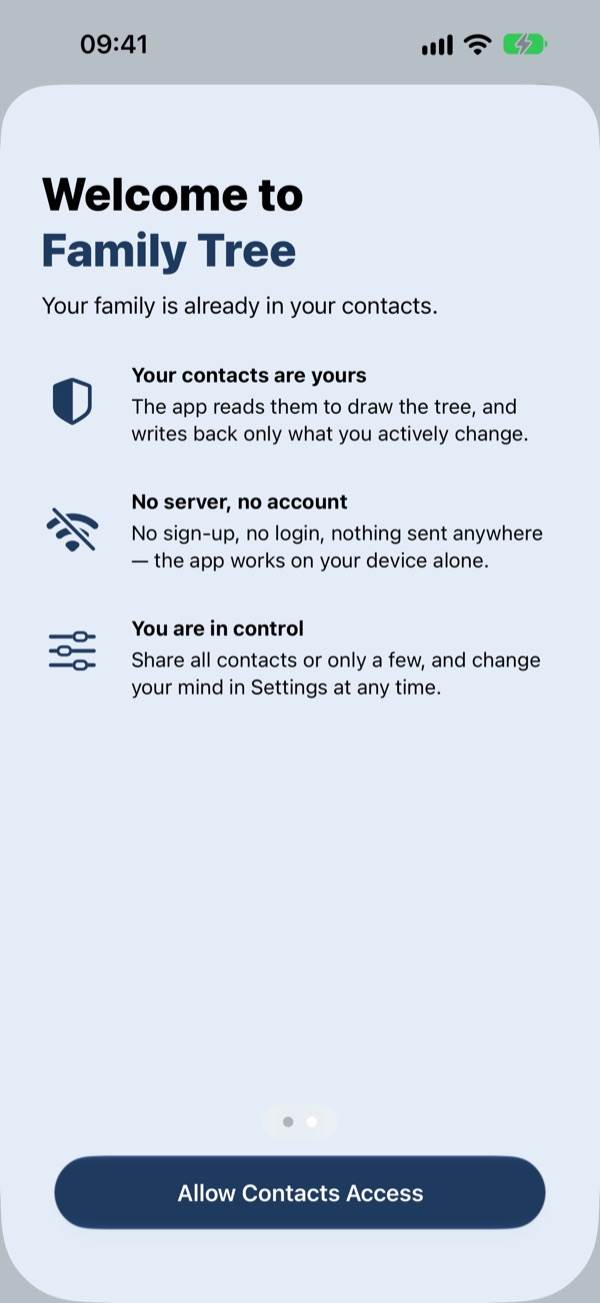
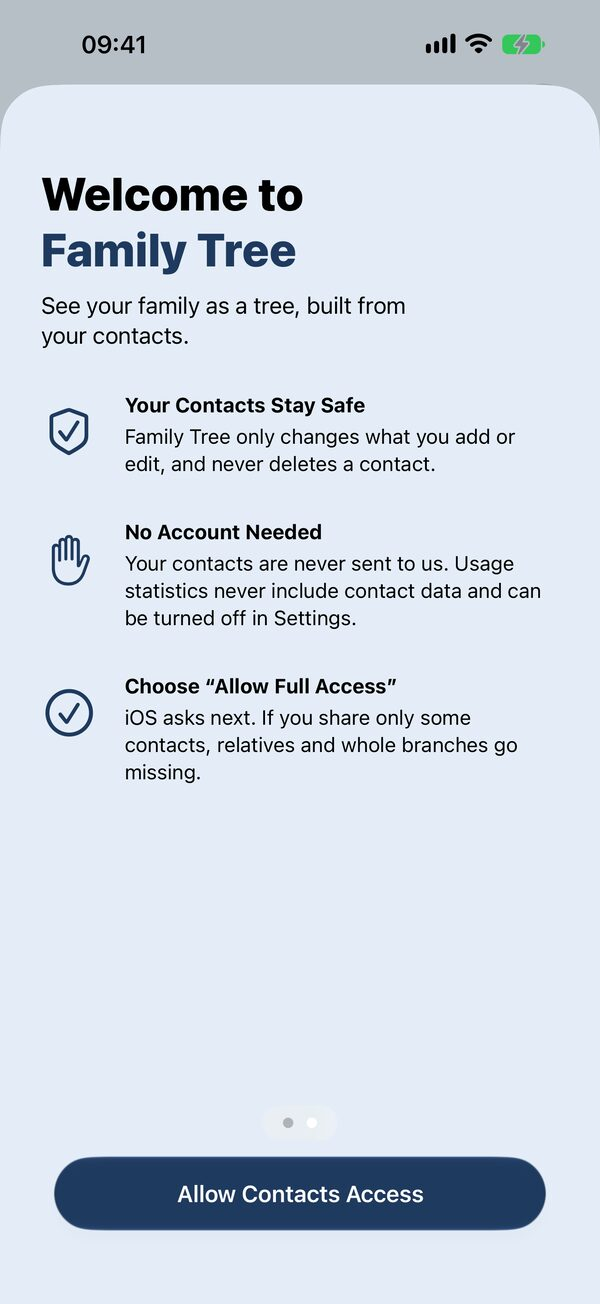
Update Family Tree to the current app with new screenshots and texts

diff --git a/data/apps/family-tree.md b/data/apps/family-tree.md
@@ -3,8 +3,8 @@ order: 3
 app_name: Family Tree
 title: "Family Tree: Your family tree from Contacts"  # <title>
 description: >-                                     # meta description + app row text
-  Turns the relations already saved in your contacts into a family tree: explore it, add parents,
-  children and partners, and fix names that do not match. No account, nothing to type again.
+  Turns your contacts into a family tree: add parents, children and partners once, and they are
+  saved right in Contacts, on all your devices. No account, nothing to type twice.
 tagline: Your family tree from Contacts
 accent: "#E8B800"
 icon: /assets/apps/family-tree/icon-256.png
@@ -16,52 +16,56 @@ coming_soon: true
 hero:
   title: The family you already carry around.
   subtitle: >-
-    Family Tree reads the mother, father, child and partner entries in your contacts and draws them
-    as a family tree. Contacts stays the single place for your data; the tree just shows it.
-  trust: ["iPhone & iPad", No account, Your data stays on your device]
+    Family Tree draws your family from the mother, father, child and partner entries in your
+    contacts. Add relatives once: they are saved right in Contacts, so your tree is on all your
+    devices through iCloud.
+  trust: ["iPhone & iPad", No account, Contacts never sent to us]
   image: 01-family-tree.jpg
   image_alt: Family Tree on iPhone, showing four generations of a family as a tree
 sections:
-  screenshots: { title: A look at Family Tree, description: "A tree of every generation, a list of everyone in it, and a PDF to share." }
+  screenshots: { title: A look at Family Tree, description: "A tree of every generation, relatives added in a few taps, and a PDF to share." }
   features:    { title: Built on your contacts, description: "No second database and no account: your family is already in your phone." }
   support:     { title: Support, description: "Something not working, or an idea? Write to apps@t-schmutz.de. I read every message." }
-  download:    { title: Family Tree is coming soon, text: "Family Tree will soon be on the App Store for iPhone and iPad. Family Tree Pro, a one-time in-app purchase, adds the PDF export and dates of death." }
+  download:    { title: Family Tree is coming soon, text: "Family Tree will soon be on the App Store for iPhone and iPad. Family Tree Pro, a one-time in-app purchase, adds the PDF export, dates of death and quiet birthdays." }
 features:
-  - { icon: diagram-3,         title: Built on your contacts, text: "The relations in your contacts become a real family tree. Change a contact and the tree follows; nothing is copied into a second database." }
-  - { icon: people,            title: Explore the tree,       text: "Generations as rows, parents above and children below. Tap anyone to put them at the centre, and show ancestors, descendants or both." }
-  - { icon: person-plus,       title: Grow your tree,         text: "Add a father, mother, son, daughter or partner right from the tree. The contact and the relation are written to Contacts in one step." }
-  - { icon: wrench,            title: Fix what does not match, text: "A typo or a nickname quietly breaks a relation. Broken relations lists every name that matched nobody, so you can fix it in Contacts." }
-  - { icon: file-earmark-pdf,  title: Share it as a PDF,      text: "With Family Tree Pro, export your family tree as a PDF to share, print or keep, and show dates of death from a date label you choose." }
-  - { icon: lock,              title: Private by design,      text: "Your family data never leaves your device. Share all contacts or only a few; the tree works either way, even offline." }
+  - { icon: diagram-3,       title: Built on your contacts,  text: "Mother, father, son, daughter, spouse and partner entries become a real family tree. Relatives you already entered show up right away, and the tree follows every change." }
+  - { icon: people,          title: Explore the tree,        text: "Generations as rows, parents above and children below. Tap anyone to put them at the center, show ancestors, descendants or both, and see brothers and sisters through shared parents." }
+  - { icon: person-plus,     title: Grow your tree,          text: "Add a father, mother, son, daughter or partner with Add Relative: pick a contact or create one, saved in one step. Edit a name and every relative's entry follows." }
+  - { icon: wrench,          title: Fix what does not match, text: "Contacts stores relatives as written names, so a typo can break a link. Broken Relations lists every such name: choose the right contact, or delete the entry." }
+  - { icon: hourglass-split, title: Remember those who passed, text: "With Family Tree Pro, add dates of death, and keep the birthdays of relatives who passed away as quiet birthdays: in the tree, without an iOS reminder." }
+  - { icon: lock,            title: Your contacts are safe,  text: "Family Tree only writes what you add or edit, never deletes a contact, and asks before deleting a relation. Your contacts are never sent to us." }
 faq:
   - q: Why does Family Tree use the Contacts app?
-    a: Your family already lives in Contacts. Family Tree reads the related names on your contact cards, such as mother or son, and draws them as a tree, so there is nothing to type in twice.
-  - q: Where are my relations stored?
-    a: On the contact cards in Contacts. Every relation you add in Family Tree is written there too, so your other apps and devices see it, and nothing is lost when you delete the app.
-  - q: Why is a relation missing or broken?
-    a: Contacts saves a related name as plain text. Family Tree connects it to the contact whose full name matches exactly, so a typo, a nickname or a missing middle name is enough to break the link. Broken relations in the people list shows each of them.
-  - q: What does Family Tree Pro add?
-    a: Family Tree Pro is a one-time in-app purchase that supports the app's development. It adds the PDF export and dates of death, unlocks future features, and is shared with your Family Sharing group.
+    a: Your family already lives in Contacts. Family Tree reads the related names on your contact cards, such as mother or son, and draws them as a tree. Relatives you add are saved there too, so your tree is on all your devices when your contacts sync with iCloud.
+  - q: Will Family Tree change or delete my contacts?
+    a: Only when you add, edit or delete something yourself, and nothing else on the contact changes. Family Tree never deletes a contact, and it asks before deleting a relation. Delete the app and your family stays in Contacts.
+  - q: Why is a relative missing from the tree?
+    a: 'Contacts saves family as a written name, like "Mother: Maria Smith", and it only shows if it is spelled exactly like her contact. Names that do not match a contact are listed under Broken Relations, where you can choose the right contact. Nothing entered yet? Add her with Add Relative.'
+  - q: How do I stop birthday reminders for relatives who passed away?
+    a: Save their birthday as a quiet birthday. It shows in the tree, but iOS sends no reminder. Set it up once under Settings › Quiet Birthdays (Family Tree Pro), then edit the contact and switch its birthday to a quiet birthday.
+  - q: What does Family Tree Pro include?
+    a: A one-time purchase, no subscription, that supports the app's development. It adds the PDF export, dates of death and quiet birthdays, and every future feature, and is shared with your Family Sharing group.
   - q: Do you collect data about me?
-    a: Family Tree has no account, and your contacts never leave your device. It uses usage analytics, which you can switch off in Settings, and crash reports to improve the app. The [privacy policy](/privacy-policy/) explains each service.
+    a: Family Tree has no account, and your contacts are never sent to us; they sync only through your own iCloud. Usage data and crash reports help improve the app, never contain names, and can be turned off in Settings. The [privacy policy](/privacy-policy/) explains each service.
   - q: How do I get in touch?
-    a: Write to [apps@t-schmutz.de](mailto:apps@t-schmutz.de), or use "Give feedback" in the app's Settings.
+    a: Write to [apps@t-schmutz.de](mailto:apps@t-schmutz.de), or use Feedback in the app's Settings.
 # The carousel shows the framed App Store screenshots in screenshots/framed/, without captions; the
 # hero and the main page show the plain ones. With iPad screenshots the carousel gets an iPhone / iPad picker.
 framed_screenshots: true
+ipad_landscape: true
 screenshots:
-  - { file: 01-family-tree.jpg,          alt: "A family tree of four generations with names and dates" }
-  - { file: 02-people.jpg,               alt: "A searchable list of everyone with a family relation" }
-  - { file: 03-add-relation.jpg,         alt: "Choosing a contact to add as Clara Hoffmann's daughter" }
-  - { file: 04-export-pdf.jpg,           alt: "A preview of the family tree as a PDF, ready to share" }
-  - { file: 05-family-tree-dark.jpg,     alt: "The family tree in dark mode" }
-  - { file: 06-onboarding.jpg,           alt: "The welcome screen explaining that the tree comes from Contacts" }
-  - { file: 07-onboarding-privacy.jpg,   alt: "The welcome screen explaining that the data stays on the device" }
+  - { file: 01-family-tree.jpg,        alt: "A family tree of four generations with names and dates" }
+  - { file: 02-add-relation.jpg,       alt: "Adding a daughter to Clara and Thomas Hoffmann by choosing a contact" }
+  - { file: 03-export-pdf.jpg,         alt: "A preview of the family tree as a PDF, ready to share" }
+  - { file: 04-family-tree-dark.jpg,   alt: "The family tree in dark mode, centered on Clara Hoffmann" }
+  - { file: 05-contact-list.jpg,       alt: "A searchable list of every contact with relatives" }
+  - { file: 06-quiet-birthday.jpg,     alt: "Setting up quiet birthdays for relatives who passed away" }
+  - { file: 07-onboarding-privacy.jpg, alt: "The welcome screen explaining that your contacts stay safe and private" }
 screenshots_ipad:
-  - { file: ipad-01-family-tree.jpg,        alt: "The people list beside a family tree of four generations on iPad" }
-  - { file: ipad-03-add-relation.jpg,       alt: "Adding a relation to a person in the tree on iPad" }
-  - { file: ipad-04-export-pdf.jpg,         alt: "A family tree exported as a PDF on iPad" }
-  - { file: ipad-05-family-tree-dark.jpg,   alt: "The family tree in dark mode on iPad" }
-  - { file: ipad-06-onboarding.jpg,         alt: "The welcome screen explaining that the tree comes from Contacts" }
-  - { file: ipad-07-onboarding-privacy.jpg, alt: "The welcome screen explaining that the data stays on the device" }
+  - { file: ipad-01-family-tree.jpg,        alt: "The contact list beside a family tree of four generations on iPad" }
+  - { file: ipad-02-add-relation.jpg,       alt: "Adding a relative to a couple in the tree on iPad" }
+  - { file: ipad-03-export-pdf.jpg,         alt: "A family tree exported as a PDF on iPad" }
+  - { file: ipad-04-family-tree-dark.jpg,   alt: "The family tree in dark mode on iPad" }
+  - { file: ipad-06-quiet-birthday.jpg,     alt: "Setting up quiet birthdays on iPad" }
+  - { file: ipad-07-onboarding-privacy.jpg, alt: "The welcome screen explaining that your contacts stay safe and private, on iPad" }
 ---
